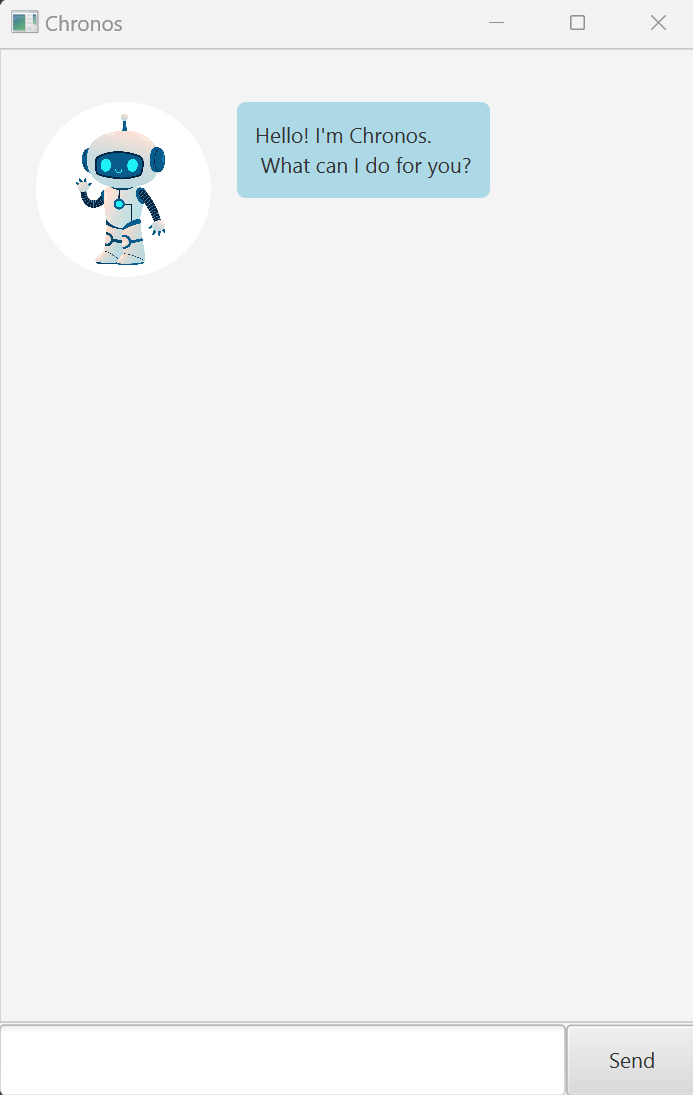
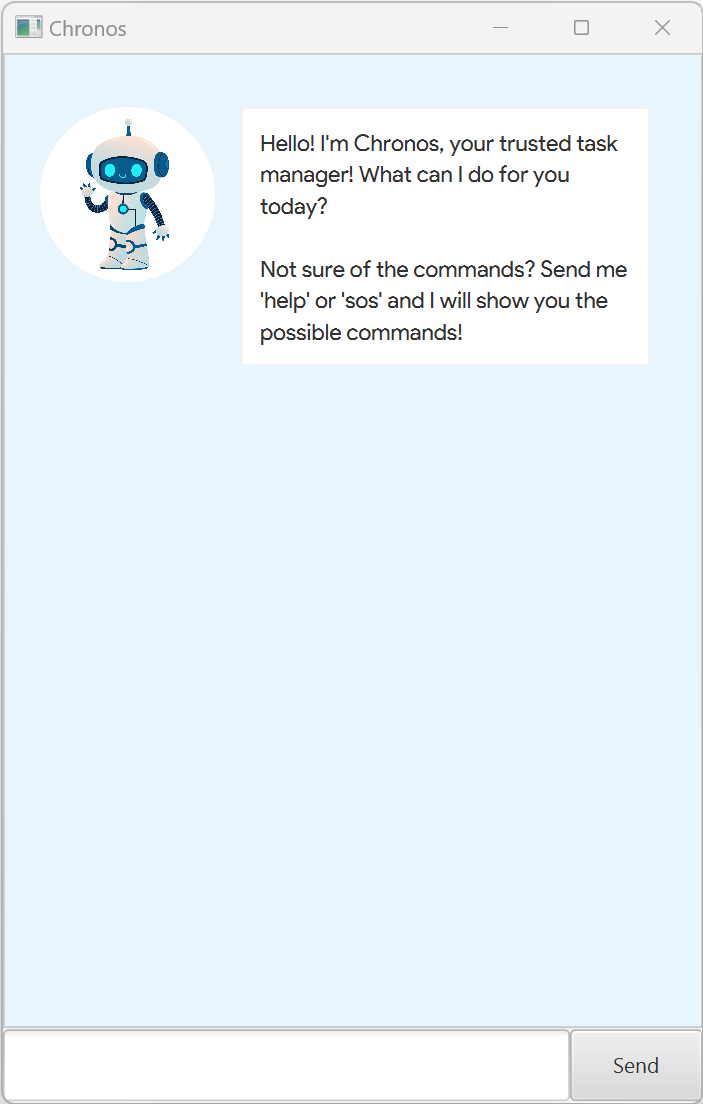
Clean up methods to adhere to code quality standards

diff --git a/src/main/java/exception/ChronosException.java b/src/main/java/exception/ChronosException.java
@@ -19,7 +19,8 @@ public abstract class ChronosException extends Exception {
      * @return InvalidByeException.
      */
     public static ChronosException createInvalidByeException() {
-        return new InvalidByeException("Invalid command. To exit the program, please key in bye.");
+        return new InvalidByeException("Oh dear, this is an invalid bye command! "
+                + "To exit the program, please key in bye.");
     }
 
     /**
@@ -28,7 +29,8 @@ public abstract class ChronosException extends Exception {
      * @return InvalidListException.
      */
     public static ChronosException createInvalidListException() {
-        return new InvalidListException("Invalid command. To print the list of tasks, please key in list.");
+        return new InvalidListException("Oh dear, this is an invalid list command! "
+                + "To print the list of tasks, please key in list.");
     }
 
     /**
@@ -37,7 +39,8 @@ public abstract class ChronosException extends Exception {
      * @return InvalidHelpException.
      */
     public static ChronosException createInvalidHelpException() {
-        return new InvalidHelpException("Invalid command. To view the list of commands, please key in help.");
+        return new InvalidHelpException("Oh dear, this is an invalid help command! "
+                + "To view the list of commands, please key in help.");
     }
 
     /**
@@ -46,7 +49,7 @@ public abstract class ChronosException extends Exception {
      * @return InvalidCommandException.
      */
     public static ChronosException createInvalidCommandException() {
-        return new InvalidCommandException("Invalid command. Please try again.");
+        return new InvalidCommandException("Oh dear, this is an invalid command! Please try again.");
     }
 
     /**
@@ -55,7 +58,7 @@ public abstract class ChronosException extends Exception {
      * @return MissingTaskNumberException.
      */
     public static ChronosException createMissingTaskNumberException() {
-        return new MissingTaskNumberException("Missing task number. Please specify the task number.");
+        return new MissingTaskNumberException("Oh dear, the task number is missing! Please specify the task number.");
     }
 
     /**
@@ -64,7 +67,8 @@ public abstract class ChronosException extends Exception {
      * @return MissingDescriptionException.
      */
     public static ChronosException createMissingDescriptionException() {
-        return new MissingDescriptionException("Missing description. Please specify the description of your task.");
+        return new MissingDescriptionException("Oh dear, the task description is missing! "
+                + "Please specify the description of your task.");
     }
 
     /**
@@ -73,9 +77,9 @@ public abstract class ChronosException extends Exception {
      * @return InvalidDeadlineException.
      */
     public static ChronosException createInvalidDeadlineException() {
-        return new InvalidDeadlineException("Invalid command. "
+        return new InvalidDeadlineException("Oh dear, this is an invalid deadline command! "
                 + "Please include a task description and due date following the example below:\n"
-                + "\t\te.g. deadline return library book /by 2024-09-22 15:00");
+                + "e.g. deadline return library book /by 2024-09-22 15:00");
     }
 
     /**
@@ -84,9 +88,9 @@ public abstract class ChronosException extends Exception {
      * @return InvalidEventException.
      */
     public static ChronosException createInvalidEventException() {
-        return new InvalidEventException("Invalid command. "
+        return new InvalidEventException("Oh dear, this is an invalid event command! "
                 + "Please include a task description and due date following the example below:\n"
-                + "\t\te.g. event concert /from 2024-02-16 18:00 /to 2024-02-16 20:00");
+                + "e.g. event concert /from 2024-02-16 18:00 /to 2024-02-16 20:00");
     }
 
     /**
@@ -95,7 +99,8 @@ public abstract class ChronosException extends Exception {
      * @return KeywordNotFoundException.
      */
     public static ChronosException createKeywordNotFoundException() {
-        return new KeywordNotFoundException("Keyword not found in any tasks. Please specify a valid keyword.");
+        return new KeywordNotFoundException("Oh dear, the keyword(s) is not found in any tasks. "
+                + "Please specify a valid keyword.");
     }
 
     /**
@@ -104,6 +109,6 @@ public abstract class ChronosException extends Exception {
      * @return MissingKeywordException.
      */
     public static ChronosException createMissingKeywordException() {
-        return new MissingKeywordException("Missing keyword. Please specify at least 1 keyword.");
+        return new MissingKeywordException("Oh dear, the keyword is missing! Please specify at least 1 keyword.");
     }
 }

diff --git a/src/main/java/tool/Ui.java b/src/main/java/tool/Ui.java
@@ -41,7 +41,7 @@ public class Ui {
      * Prints goodbye to user.
      */
     public static String bidGoodbye() {
-        return "Bye. Hope to see you again soon!";
+        return "Bye~ Come back anytime to track your tasks!";
     }
 
     /**
@@ -83,7 +83,7 @@ public class Ui {
      */
     public String printAddTodoSuccessful(Task todo, int noOfTasks) {
         ArrayList<String> message = new ArrayList<>();
-        message.add("Got it. I've added this task:\n");
+        message.add("Got it! I've added this todo:\n");
         message.add(todo + "\n");
         message.add("Now you have " + noOfTasks + " tasks in the list.");
         return String.join(" ", message);
@@ -97,7 +97,7 @@ public class Ui {
      */
     public String printAddDeadlineSuccessful(Task deadline, int noOfTasks) {
         ArrayList<String> message = new ArrayList<>();
-        message.add("Got it. I've added this task:\n");
+        message.add("Got it! I've added this deadline:\n");
         message.add(deadline + "\n");
         message.add("Now you have " + noOfTasks + " tasks in the list.");
         return String.join(" ", message);
@@ -111,7 +111,7 @@ public class Ui {
      */
     public String printAddEventSuccessful(Task event, int noOfTasks) {
         ArrayList<String> message = new ArrayList<>();
-        message.add("Got it. I've added this task:\n");
+        message.add("Got it! I've added this event:\n");
         message.add(event + "\n");
         message.add("Now you have " + noOfTasks + " tasks in the list.");
         return String.join(" ", message);
@@ -124,7 +124,7 @@ public class Ui {
      */
     public String printMarkTaskSuccessful(Task selectedTaskToBeMarked) {
         ArrayList<String> message = new ArrayList<>();
-        message.add("OK, I've marked this task as not done yet:\n");
+        message.add("Great work in completing the task! I've marked this task as done:\n");
         message.add(selectedTaskToBeMarked.toString());
         return String.join(" ", message);
     }
@@ -136,7 +136,7 @@ public class Ui {
      */
     public String printUnmarkTaskSuccessful(Task selectedTaskToBeUnmarked) {
         ArrayList<String> message = new ArrayList<>();
-        message.add("OK, I've marked this task as not done yet:\n");
+        message.add("This task is still waiting to be conquered! I've marked this task as not done:\n");
         message.add(selectedTaskToBeUnmarked.toString());
         return String.join(" ", message);
     }
@@ -149,7 +149,7 @@ public class Ui {
      */
     public String printDeleteTaskSuccessful(Task deletedTask, int noOfTasks) {
         ArrayList<String> message = new ArrayList<>();
-        message.add("Noted. I've removed this task:\n");
+        message.add("Got it! I've removed this task:\n");
         message.add(deletedTask + "\n");
         message.add("Now you have " + noOfTasks + " tasks in the list.");
         return String.join(" ", message);
@@ -159,13 +159,13 @@ public class Ui {
      * Prints custom error message for NumberFormatException.
      */
     public String printNumberFormatException() {
-        return "Task number is not an integer. Please include a valid task number.";
+        return "Oh dear, the task number is not an integer! Please include a valid task number.";
     }
 
     /**
      * Prints custom error message for IndexOutOfBoundsException.
      */
     public String printIndexOutOfBoundsException() {
-        return "Task number out of range. Please include a valid task number.";
+        return "Oh dear, the task number out of range! Please include a valid task number.";
     }
 }

diff --git a/src/main/java/tool/Parser.java b/src/main/java/tool/Parser.java
@@ -231,8 +231,8 @@ public class Parser {
             return e.getMessage();
         } catch (Exception e) {
             ArrayList<String> message = new ArrayList<>();
-            message.add("Invalid command.");
-            message.add("Please include a task description and due date following the example below:");
+            message.add("Oh dear, this is an invalid deadline command!");
+            message.add("Please include a task description and due date following the example below:\n");
             message.add("e.g. deadline return library book /by 2024-09-22 15:00");
             return String.join(" ", message);
         }
@@ -265,8 +265,8 @@ public class Parser {
             return e.getMessage();
         } catch (Exception e) {
             ArrayList<String> message = new ArrayList<>();
-            message.add("Invalid command.");
-            message.add("Please include a task description and due date following the example below:");
+            message.add("Oh dear, this is an invalid event command!");
+            message.add("Please include a task description and due date following the example below:\n");
             message.add("e.g. event concert /from 2024-02-16 18:00 /to 2024-02-16 20:00");
             return String.join(" ", message);
         }
@@ -317,27 +317,27 @@ public class Parser {
         try {
             if (isNotDoubleArgument(token.length) || token[1].trim().isEmpty()) {
                 throw ChronosException.createMissingKeywordException();
-            } else {
-                String[] keywords = token[1].split(" ");
+            }
 
-                for (String keyword : keywords) {
-                    for (int i = 1; i < tasks.size() + 1; i++) {
-                        Task currentTask = tasks.getTask(i - 1);
-                        assert currentTask != null : "Current task should not be null.";
+            String[] keywords = token[1].split(" ");
 
-                        if (currentTask.getDescription().contains(keyword)
-                                && !filteredTasks.contains(currentTask)) {
-                            filteredTasks.addTask(currentTask);
-                        }
+            for (String keyword : keywords) {
+                for (int i = 1; i < tasks.size() + 1; i++) {
+                    Task currentTask = tasks.getTask(i - 1);
+                    assert currentTask != null : "Current task should not be null.";
+
+                    if (currentTask.getDescription().contains(keyword)
+                            && !filteredTasks.contains(currentTask)) {
+                        filteredTasks.addTask(currentTask);
                     }
                 }
-
-                if (filteredTasks.isEmpty()) {
-                    throw ChronosException.createKeywordNotFoundException();
-                } else {
-                    return ui.printTasks(filteredTasks);
-                }
             }
+
+            if (filteredTasks.isEmpty()) {
+                throw ChronosException.createKeywordNotFoundException();
+            }
+
+            return ui.printTasks(filteredTasks);
         } catch (exception.MissingKeywordException | exception.KeywordNotFoundException e) {
             return e.getMessage();
         }

diff --git a/src/main/java/gui/DialogBox.java b/src/main/java/gui/DialogBox.java
@@ -47,6 +47,19 @@ public class DialogBox extends HBox {
             e.printStackTrace();
         }
 
+        customiseDialogBoxText(text, backgroundColor);
+        customiseDialogBoxImage(img);
+        this.setAlignment(Pos.TOP_RIGHT);
+        this.setSpacing(15);
+    }
+
+    /**
+     * Customises the text in the dialog box.
+     *
+     * @param text The text provided by the user.
+     * @param backgroundColor The background color of the text.
+     */
+    private void customiseDialogBoxText(String text, Color backgroundColor) {
         dialog.setText(text);
         dialog.setWrapText(true);
         dialog.setStyle("-fx-background-radius: 5px; "
@@ -55,7 +68,14 @@ public class DialogBox extends HBox {
                 + "-fx-border-color: #F2F2F2;"
                 + "-fx-border-width: 1px;"
                 + "-fx-font-family: 'Product Sans'; -fx-font-size: 13px;");
+    }
 
+    /**
+     * Customises the image in the dialog box.
+     *
+     * @param img The image in the dialog box.
+     */
+    private void customiseDialogBoxImage(Image img) {
         displayPicture.setImage(img);
         displayPicture.setFitWidth(100.0);
         displayPicture.setFitHeight(100.0);
@@ -63,11 +83,14 @@ public class DialogBox extends HBox {
         Circle clip = new Circle(displayPicture.getFitWidth() / 2, displayPicture.getFitHeight() / 2,
                 displayPicture.getFitWidth() / 2);
         displayPicture.setClip(clip);
-
-        this.setAlignment(Pos.TOP_RIGHT);
-        this.setSpacing(15);
     }
 
+    /**
+     * Converts the color to an RGB string format.
+     *
+     * @param color Color to be converted.
+     * @return RGB string format of the given color.
+     */
     private String toRgbString(Color color) {
         return String.format("rgba(%d, %d, %d, %f)",
                 (int) (color.getRed() * 255),

diff --git a/src/main/java/gui/Main.java b/src/main/java/gui/Main.java
@@ -7,7 +7,6 @@ import javafx.application.Application;
 import javafx.fxml.FXMLLoader;
 import javafx.scene.Scene;
 import javafx.scene.layout.AnchorPane;
-import javafx.scene.text.Font;
 import javafx.stage.Stage;
 
 /**
@@ -27,7 +26,6 @@ public class Main extends Application {
             FXMLLoader fxmlLoader = new FXMLLoader(Main.class.getResource("/view/MainWindow.fxml"));
             AnchorPane ap = fxmlLoader.load();
             Scene scene = new Scene(ap);
-            Font.loadFont(getClass().getResourceAsStream("/resources/fonts/Inter-Bold.ttf"), 12);
             stage.setScene(scene);
             stage.setTitle("Chronos");
             fxmlLoader.<MainWindow>getController().setChronos(chronos);

diff --git a/src/main/java/gui/MainWindow.java b/src/main/java/gui/MainWindow.java
@@ -77,7 +77,7 @@ public class MainWindow extends AnchorPane {
         userInput.clear();
 
         if (input.equalsIgnoreCase("bye")) {
-            PauseTransition pause = new PauseTransition(Duration.seconds(2));
+            PauseTransition pause = new PauseTransition(Duration.seconds(3));
             pause.setOnFinished(event -> {
                 Platform.exit();
             });

diff --git a/docs/README.md b/docs/README.md
@@ -7,7 +7,7 @@ for use via a Command Line Interface (CLI), Chronos can track your tasks faster 
 ![](Ui.png)
 
 ## Quick Start
-1. Ensure you have `Java 11` or above installed in your Computer. 
+1. Ensure you have `Java 11` or above installed in your Computer.
 2. Download the latest `chronos.jar` from [here](https://github.com/triciiaaa/ip/releases).
 3. Copy the file to the folder you want to use as the home folder for your Chronos application.
 4. Open a command terminal, `cd` into the folder you put the jar file in, and use the `java -jar chronos.jar` 
